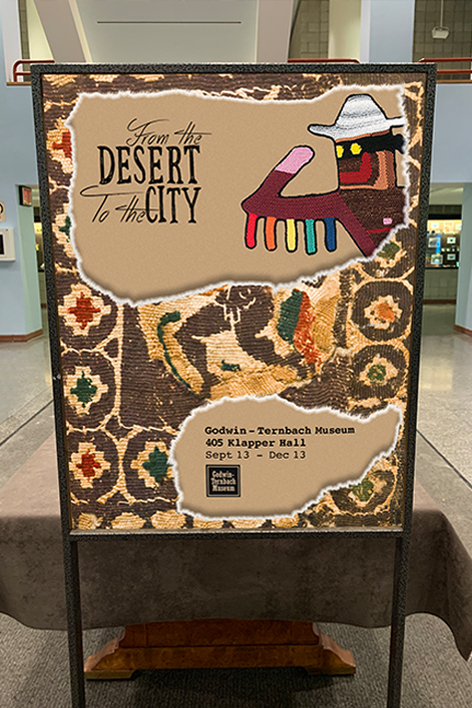
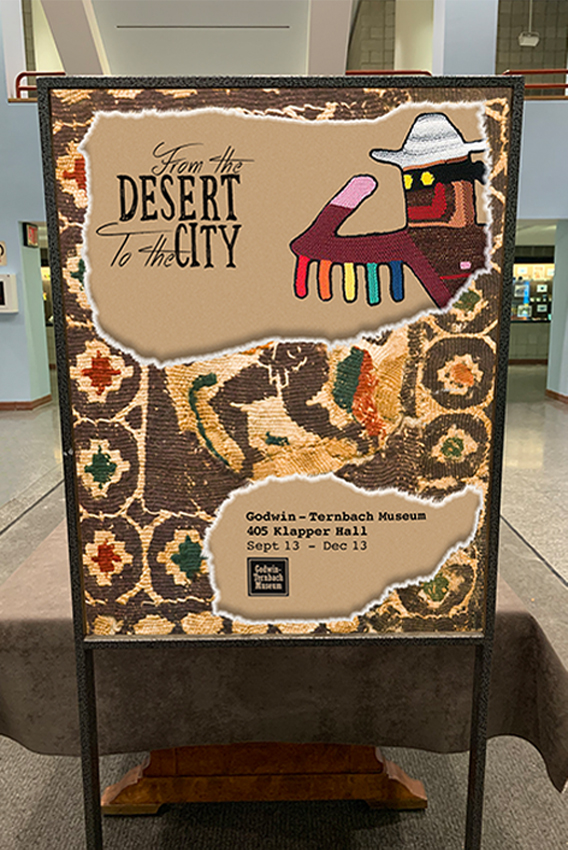
fixed posters for tablet

diff --git a/css/tablet.css b/css/tablet.css
@@ -8,7 +8,7 @@ nav {
 .logo {
    margin: auto;
    margin-top: 52px;
-   margin-left: 220px;
+   margin-left: 222px;
    width: 324px;
    height: 18px;
 }
@@ -107,6 +107,7 @@ h1 {
 }
 
 .design-catalogue > img {
+   position: relative;
    width: 736px;
    height: 490px;
    padding: 9px 0;
@@ -117,9 +118,10 @@ h1 {
    margin-top: 58px;
 }
 
-.poster.location > div > img {
+.poster-location > div > img {
    width: 568px;
    height: 850px;
+   margin-top: 90px;
 }
 
 .poster-location {
@@ -129,6 +131,12 @@ h1 {
 
 .poster-title > h1:nth-of-type(1) {
    margin-left: 21px;
+}
+
+.poster-title > h1:nth-of-type(2) {
+   position: absolute;
+   margin-left: 330px;
+   margin-top: 700px;
 }
 
 .design-video {

diff --git a/design.html b/design.html
@@ -53,7 +53,7 @@
          <img src="img/poster.jpg" alt="From the Desert to the City Poster">
       </div>
       <div>
-         <img src="img/poster-location.jpg" width="472" height="708" alt="From the Desert to the City Poster location">
+         <img src="img/poster-location.jpg" alt="From the Desert to the City Poster location">
       </div>
    </div>
 </div>

diff --git a/css/laptop.css b/css/laptop.css
@@ -127,6 +127,11 @@ h1 {
    justify-content: space-between;
 }
 
+.poster-location > div > img {
+   width: 472px;
+   height: 708px;
+}
+
 .poster-title > h1 {
    display: inline-block;
 }
